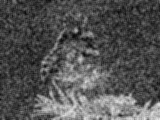
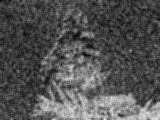
add nlm filter

Changed region(s): [[0.0, 0.0, 1.0, 1.0], [0.4688, 0.125, 0.5, 0.15], [0.0938, 0.8, 0.125, 0.825]]

diff --git a/dip2_py/dip2.py b/dip2_py/dip2.py
@@ -30,16 +30,18 @@ noise_type_names: Dict[NoiseType, str] = {
 
 class NoiseReductionAlgorithm(Enum):
     """Enumerates available denoising algorithms."""
-
     NR_MOVING_AVERAGE_FILTER = auto()
     NR_MEDIAN_FILTER = auto()
-    NR_BILATERAL_FILTER = auto()
+    # NR_BILATERAL_FILTER = auto()
+    NR_NLM_FILTER = auto()
+
 
 
 noise_reduction_algorithm_names: Dict[NoiseReductionAlgorithm, str] = {
     NoiseReductionAlgorithm.NR_MEDIAN_FILTER: "NR_MEDIAN_FILTER",
     NoiseReductionAlgorithm.NR_MOVING_AVERAGE_FILTER: "NR_MOVING_AVERAGE_FILTER",
-    NoiseReductionAlgorithm.NR_BILATERAL_FILTER: "NR_BILATERAL_FILTER",
+    # NoiseReductionAlgorithm.NR_BILATERAL_FILTER: "NR_BILATERAL_FILTER",
+    NoiseReductionAlgorithm.NR_NLM_FILTER: "NR_NLM_FILTER",
 }
 
 
@@ -145,7 +147,45 @@ def nlm_filter(src: np.ndarray, search_size: int, sigma: float) -> np.ndarray:
     """
     Non-local means filter (optional task!).
     """
-    return np.array(src, copy=True)
+    print("nlm_filter():")
+    patch_size = 3
+
+    pad_size = int(search_size/2)
+    padded_src = np.pad(src, (pad_size, pad_size), mode="reflect")
+
+    height = src.shape[0]
+    width = src.shape[1]
+    filtered_img = np.zeros((height, width), dtype=np.uint8)
+
+    # iterate over image
+    search_window_pad_size = int(patch_size/2)
+    for y in range(height):
+        for x in range(width):
+
+            # crop search_window
+            search_window = padded_src[0:y+search_size, 0:x+search_size]
+            padded_search_window = np.pad(search_window, (search_window_pad_size, search_window_pad_size), mode="reflect")
+
+            # center path
+            center_patch = padded_search_window[y:(y+patch_size), x:(x+patch_size)]
+            # center_patch_avg = center_patch.mean()
+
+            distance_sum = 0.0
+            for y_s in range(search_size):
+                for x_s in range(search_size):
+                    patch = padded_search_window[y_s:(y_s+patch_size), x_s:(x_s+patch_size)]
+                    # patch_avg = patch.mean()
+                    # distance_sum += (patch_avg - center_patch_avg)**2
+                    # weight =+ np.exp(-distance/(2*sigma**2))
+                    # weight =+ distance/(2*sigma**2)
+
+            # weight = weight/(search_size*search_size)
+            distance_sum = distance_sum/(search_size*search_size)
+            weight = np.exp(-distance_sum/(2*sigma**2))
+            # weight = weight / (search_size*search_size)
+            filtered_img[y,x] = src[y,x] * weight
+
+    return np.array(filtered_img, copy=True)
 
 
 def choose_best_algorithm(noise_type: NoiseType) -> NoiseReductionAlgorithm:
@@ -180,11 +220,18 @@ def denoise_image(
             return median_filter(src, 5)
         raise ValueError("Unhandled noise type!")
 
-    if noise_reduction_algorithm is NoiseReductionAlgorithm.NR_BILATERAL_FILTER:
+    # if noise_reduction_algorithm is NoiseReductionAlgorithm.NR_BILATERAL_FILTER:
+    #     if noise_type is NoiseType.NOISE_TYPE_1:
+    #         return bilateral_filter(src, 3, 1.0, 1.0)
+    #     if noise_type is NoiseType.NOISE_TYPE_2:
+    #         return bilateral_filter(src, 3, 1.0, 1.0)
+    #     raise ValueError("Unhandled noise type!")
+
+    if noise_reduction_algorithm is NoiseReductionAlgorithm.NR_NLM_FILTER:
         if noise_type is NoiseType.NOISE_TYPE_1:
-            return bilateral_filter(src, 3, 1.0, 1.0)
+            return nlm_filter(src, 5, 1.0)
         if noise_type is NoiseType.NOISE_TYPE_2:
-            return bilateral_filter(src, 3, 1.0, 1.0)
+            return nlm_filter(src, 5, 1.0)
         raise ValueError("Unhandled noise type!")
 
     raise ValueError("Unhandled filter type!")
